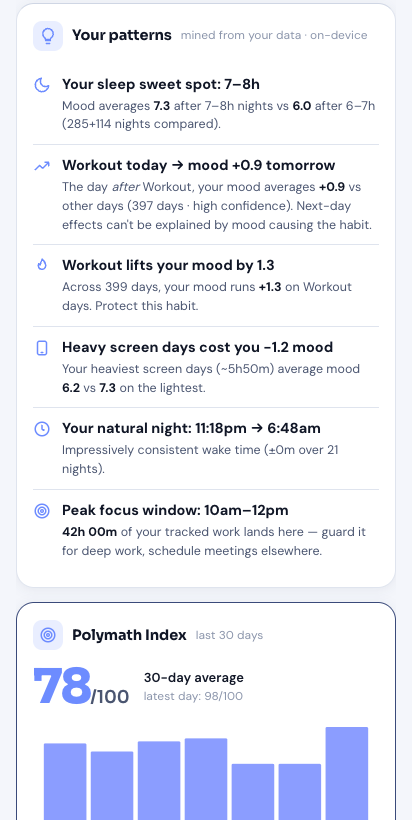
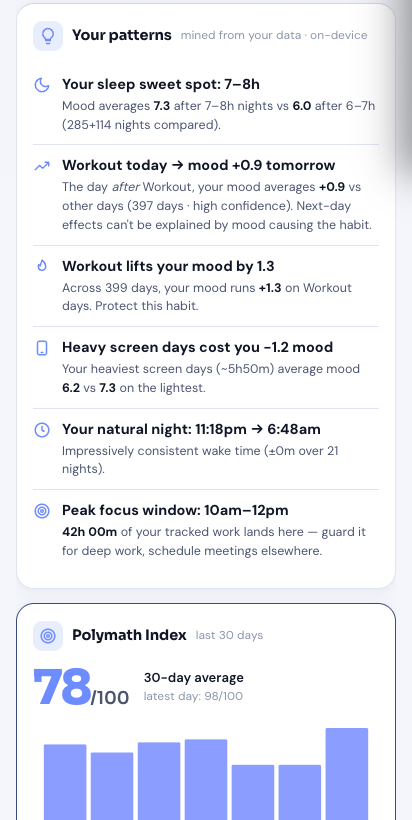
v124: compact Year in Pixels (31x12, 234px not 1050px) + versioned assets
- Transposed the mosaic to 31 columns (days) x 12 rows (months) with month labels,
  fixed 9px cells. Reads like a calendar and no longer swamps the Stats screen.
- tools/bump.sh: bumps APP_VERSION, the sw.js CACHE key, and the ?v= query on every
  local css/js tag in index.html together. Unversioned asset URLs meant a CSS-only
  change could sit stale on an installed app indefinitely - bumping APP_VERSION and
  the SW cache key does not change the asset URL, so neither fixed it.
- sw.js matches with {ignoreSearch:true} so styles.css?v=NNN still resolves against
  the unversioned precache when offline.
- Regenerated the 8 store screenshots for the new layout.

diff --git a/app.js b/app.js
@@ -5,7 +5,7 @@
 
 'use strict';
 
-const APP_VERSION = 'v123';   // shown in More ▸ About so you can confirm the build on each device
+const APP_VERSION = 'v124';   // shown in More ▸ About so you can confirm the build on each device
 
 /* Corruption-proof localStorage reads: one interrupted write (force-kill mid-save is a
    real Android failure mode) must degrade to defaults, never white-screen the boot. */
@@ -927,24 +927,27 @@ function refreshTodayRing() {
 function yearPixelsHTML(year) {
   const e = DB.entries();
   const y = year || new Date().getFullYear();
-  const MON = ['J','F','M','A','M','J','J','A','S','O','N','D'];
-  let logged = 0, sum = 0;
-  let grid = '';
-  for (let day = 1; day <= 31; day++) {
-    for (let mon = 0; mon < 12; mon++) {
-      const ds = `${y}-${String(mon + 1).padStart(2, '0')}-${String(day).padStart(2, '0')}`;
+  const MON = ['Jan','Feb','Mar','Apr','May','Jun','Jul','Aug','Sep','Oct','Nov','Dec'];
+  let logged = 0, sum = 0, rows = '';
+  // 31 columns (days) x 12 rows (months) — reads like a calendar and stays compact.
+  // The other way round (12 x 31) is 700px tall on a phone, which swamps the screen.
+  for (let mon = 0; mon < 12; mon++) {
+    let cells = '';
+    for (let day = 1; day <= 31; day++) {
       const valid = new Date(y, mon, day).getMonth() === mon;
-      if (!valid) { grid += '<i class="yp-x"></i>'; continue; }
+      if (!valid) { cells += '<i class="yp-x"></i>'; continue; }
+      const ds = `${y}-${String(mon + 1).padStart(2, '0')}-${String(day).padStart(2, '0')}`;
       const en = e[ds];
       const m = en && en.mood != null && en.mood !== '' ? +en.mood : null;
       if (m != null) { logged++; sum += m; }
       const col = moodColor(m);
-      grid += `<i class="yp${m != null ? ' yp-on' : ''}" data-yp="${ds}"
+      cells += `<i class="yp${m != null ? ' yp-on' : ''}" data-yp="${ds}"
         style="${col ? `background:${col}` : ''}" title="${ds}${m != null ? ' · mood ' + m : ''}"></i>`;
     }
+    rows += `<div class="yp-row"><span class="yp-mon">${MON[mon]}</span><div class="yp-days">${cells}</div></div>`;
   }
   const avgM = logged ? (sum / logged).toFixed(1) : '–';
-  // a 372-cell empty grid is a bad first impression; wait until it has something to show
+  // a mostly-empty mosaic is a bad first impression; wait until it has something to show
   if (logged < 10) {
     return `<div class="card yp-card">
       <h2 class="h2-icon">${hicon('calendar')}<span>${y} in pixels</span></h2>
@@ -954,8 +957,7 @@ function yearPixelsHTML(year) {
   return `<div class="card yp-card">
     <h2 class="h2-icon">${hicon('calendar')}<span>${y} in pixels</span>
       <span class="hint" style="margin-left:auto">${logged} days · avg ${avgM}</span></h2>
-    <div class="yp-months">${MON.map(m => `<span>${m}</span>`).join('')}</div>
-    <div class="yp-grid">${grid}</div>
+    <div class="yp-grid">${rows}</div>
     <div class="yp-legend"><span class="hint">low</span>
       ${MOOD_SCALE.map(c => `<i style="background:${c}"></i>`).join('')}
       <span class="hint">high</span></div>

diff --git a/styles.css b/styles.css
@@ -1097,16 +1097,18 @@ svg.chart, .chart-bar, #graph-svg { max-width: 100%; display: block; }
 .ring-full { animation: ringPop .45s cubic-bezier(.3,1.5,.5,1); }
 @keyframes ringPop { 0% { transform: scale(1); } 45% { transform: scale(1.022); } 100% { transform: scale(1); } }
 
-/* ---- Year in Pixels: a whole year of moods as one picture ---- */
+/* ---- Year in Pixels: a whole year of moods as one compact picture ----
+   31 columns (days) x 12 rows (months). Cells are a fixed small size so the whole
+   year lands in ~200px instead of swamping the screen. */
 .yp-card { overflow: hidden; }
-.yp-months { display: grid; grid-template-columns: repeat(12, 1fr); gap: 2px;
-  font-size: 9px; color: var(--text-faint); text-align: center; margin-bottom: 3px; }
-.yp-grid { display: grid; grid-template-columns: repeat(12, 1fr); gap: 2px; }
-.yp, .yp-x { display: block; width: 100%; aspect-ratio: 1 / 0.62; border-radius: 2px;
-  background: var(--bg-input); }
+.yp-grid { display: flex; flex-direction: column; gap: 2px; }
+.yp-row { display: flex; align-items: center; gap: 5px; }
+.yp-mon { flex: 0 0 22px; font-size: 8.5px; color: var(--text-faint); text-align: right;
+  line-height: 1; letter-spacing: -.2px; }
+.yp-days { flex: 1; display: grid; grid-template-columns: repeat(31, 1fr); gap: 2px; }
+.yp, .yp-x { display: block; width: 100%; height: 9px; border-radius: 2px; background: var(--bg-input); }
 .yp-x { background: transparent; }
 .yp-on { cursor: pointer; }
-.yp-on:active { transform: scale(1.5); }
-.yp-legend { display: flex; align-items: center; gap: 3px; margin-top: 9px; }
+.yp-legend { display: flex; align-items: center; gap: 3px; margin-top: 10px; }
 .yp-legend i { display: block; width: 13px; height: 8px; border-radius: 2px; }
 .yp-legend .hint { font-size: 10px; }

diff --git a/sw.js b/sw.js
@@ -1,7 +1,7 @@
 /* Daylog service worker
    Strategy: NETWORK-FIRST for the app's own files (so you ALWAYS get the latest
    when online), with cache fallback so it still works fully offline. */
-const CACHE = 'daily-pulse-v123';
+const CACHE = 'daily-pulse-v124';
 const ASSETS = [
   './', './index.html', './styles.css', './app.js',
   './workout-anims.js', './workout-plan.js',
@@ -33,6 +33,9 @@ self.addEventListener('fetch', (e) => {
   e.respondWith(
     fetch(e.request)
       .then(res => { if (res && res.ok) { const c = res.clone(); caches.open(CACHE).then(ch => ch.put(e.request, c)); } return res; })
-      .catch(() => caches.match(e.request).then(hit => hit || caches.match('./index.html')))
+            // ignoreSearch: the page now requests styles.css?v=NNN / app.js?v=NNN to defeat the
+      // WebView + Pages edge caches, but the precache stores them unversioned. Without this
+      // an offline launch would find no match and render unstyled.
+      .catch(() => caches.match(e.request, { ignoreSearch: true }).then(hit => hit || caches.match('./index.html')))
   );
 });

diff --git a/index.html b/index.html
@@ -15,7 +15,7 @@
   <link rel="preconnect" href="https://fonts.googleapis.com">
   <link rel="preconnect" href="https://fonts.gstatic.com" crossorigin>
   <link href="https://fonts.googleapis.com/css2?family=DM+Sans:opsz,wght@9..40,400;9..40,500;9..40,600;9..40,700&family=Sora:wght@600;700;800&display=swap" rel="stylesheet">
-  <link rel="stylesheet" href="styles.css">
+  <link rel="stylesheet" href="styles.css?v=124">
   <script src="libs/jspdf.min.js" defer></script>
 </head>
 <body>
@@ -113,8 +113,8 @@
   <div id="print-report"></div>
 
   <div class="toast" id="toast"></div>
-  <script src="workout-anims.js"></script>
-  <script src="workout-plan.js"></script>
-  <script src="app.js"></script>
+  <script src="workout-anims.js?v=124"></script>
+  <script src="workout-plan.js?v=124"></script>
+  <script src="app.js?v=124"></script>
 </body>
 </html>

diff --git a/LLM wiki from karpathy/log.md b/LLM wiki from karpathy/log.md
@@ -1,3 +1,30 @@
+## 2026-08-19 (late) — v124: Year in Pixels made compact + release versions now bump together
+
+**Kishore's feedback: the pixel grid was too big.** It was. Transposed it from 12 columns x
+31 rows to **31 columns (days) x 12 rows (months)** with month labels down the left, and set
+a fixed 9px cell height instead of `aspect-ratio`. The card went **1050px -> 234px**, and the
+whole Stats overview (year mosaic + stat tiles + insights) now fits one screen. It also reads
+like a calendar, which the tall version never did.
+
+### The cache bug this uncovered — read this before shipping a CSS-only change
+The compact grid was live on Pages but the phone kept rendering the old square cells, even
+after force-stop + clearing `cache/WebView` + deleting the service-worker directory. Root
+cause: `index.html` linked `styles.css` and `app.js` **unversioned**, so the WebView HTTP
+cache and the Pages edge cache could both serve stale CSS indefinitely. Bumping
+`APP_VERSION` and the SW `CACHE` key does nothing for that — neither changes the asset URL.
+
+**Fix, now permanent:** `tools/bump.sh [n]` bumps all three in lockstep —
+`app.js APP_VERSION`, `sw.js CACHE`, and the `?v=` query on every local css/js tag in
+`index.html`. **Use it for every release; never hand-edit those three.**
+
+Second-order fix: the service worker precaches assets *unversioned*, so a request for
+`styles.css?v=124` would have missed the cache and an offline launch would have rendered
+unstyled. `sw.js` now matches with `{ ignoreSearch: true }`.
+
+**Verified:** card 234px, 12 rows x 31 cells, 230 pixels coloured, `styles.css?v=124`
+confirmed as the loaded stylesheet, deep-link still opens the tapped day, 55/55 tests,
+all 17 screens error-free. Store screenshots regenerated for the new layout.
+
 ## 2026-08-19 (evening) — v122/v123: reward widgets + a reusable screenshot pipeline
 
 Direction from Kishore: stop adding plain form widgets, add ones that "hit dopamine".
